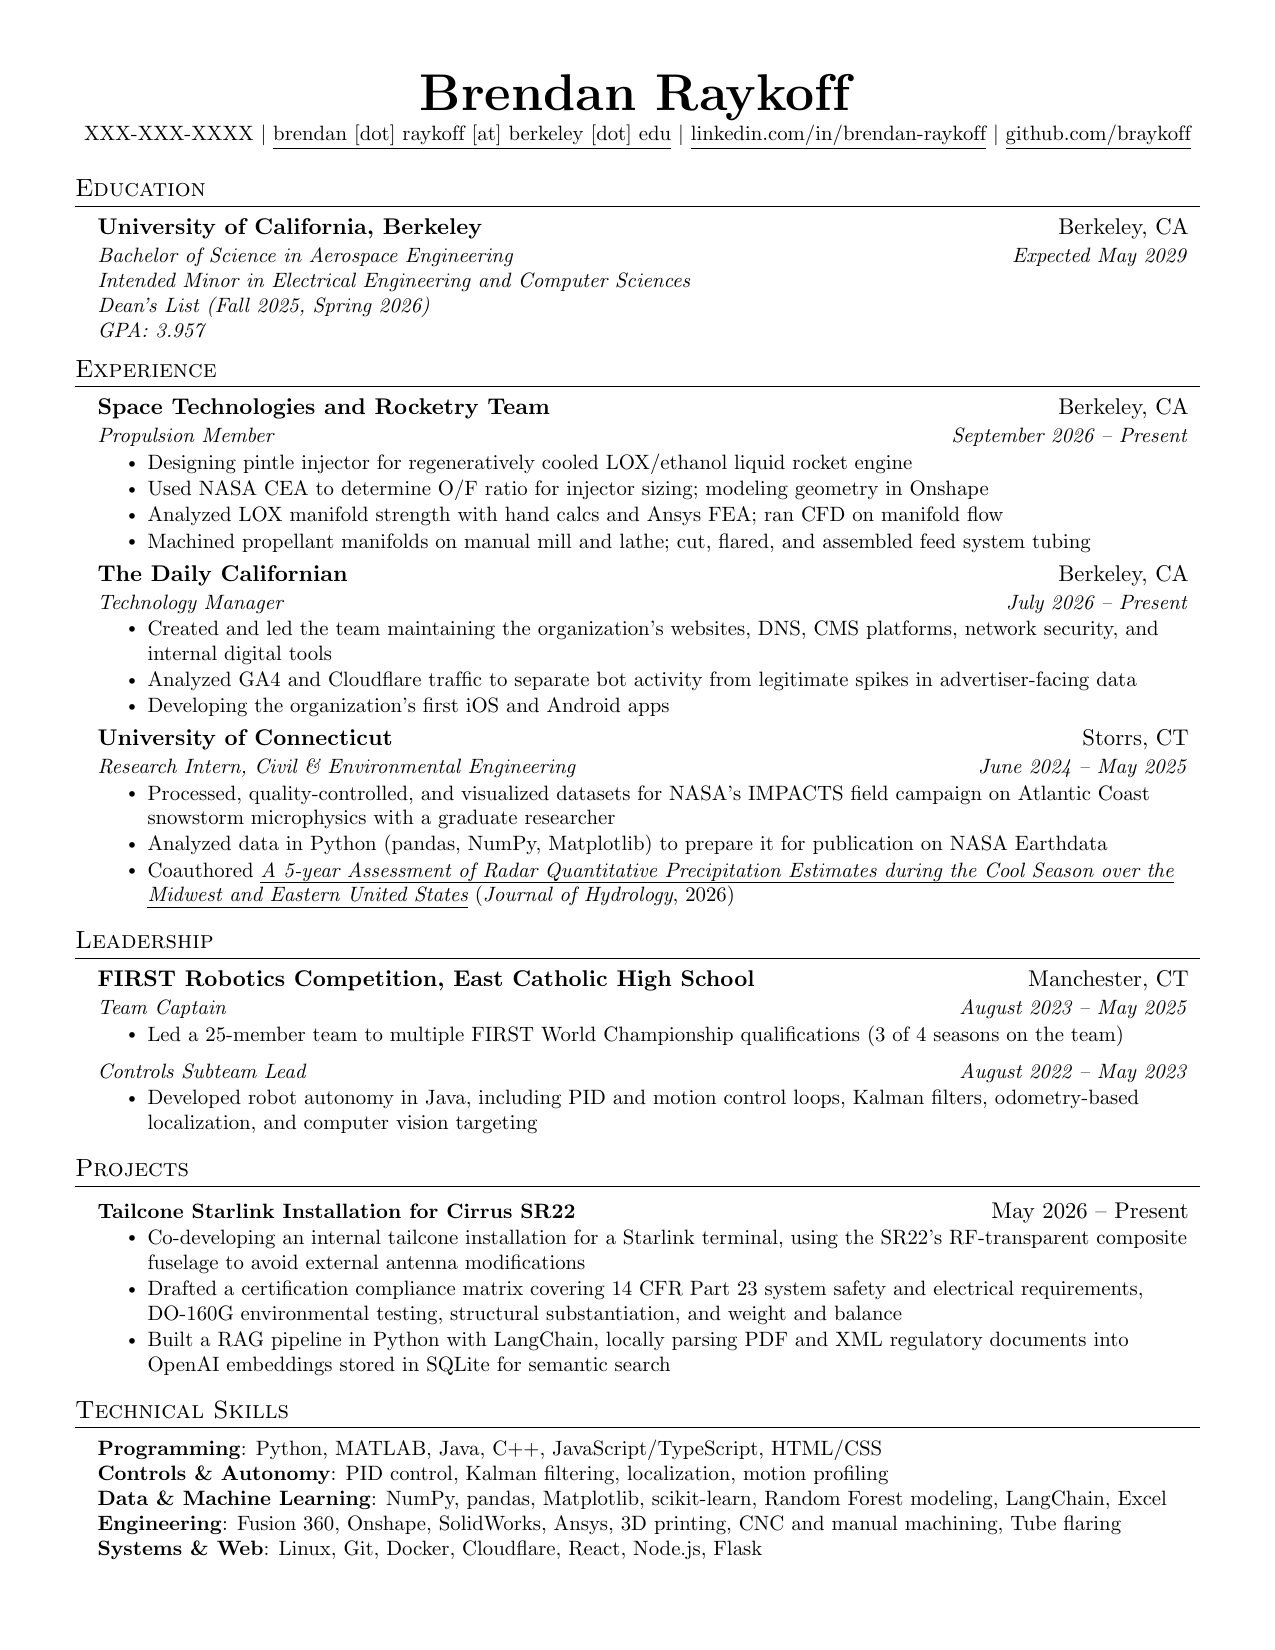
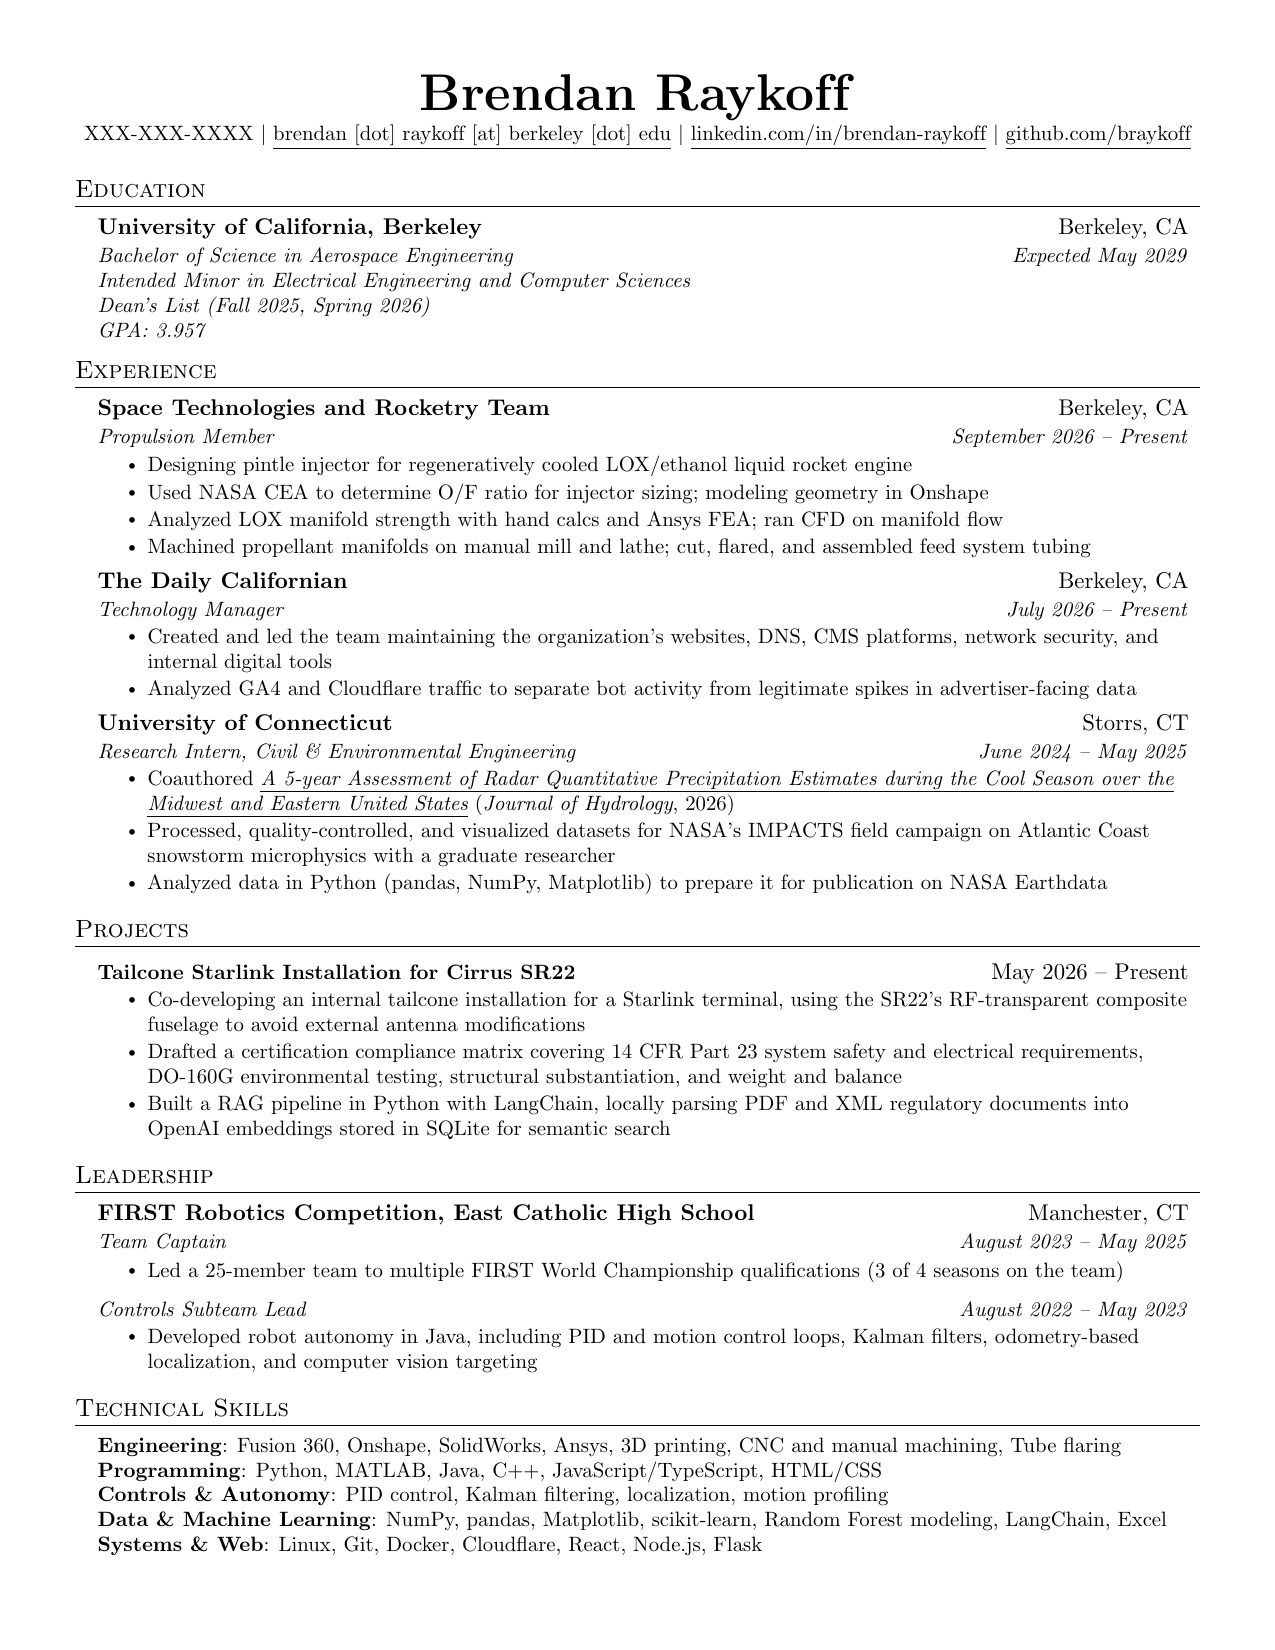
Rearranged sections

Changed region(s): [[0.0612, 0.2164, 0.9482, 0.9582], [0.8259, 0.2473, 0.9176, 0.2782], [0.7647, 0.2473, 0.7953, 0.2782]]

diff --git a/resume.tex b/resume.tex
@@ -153,18 +153,29 @@
       \resumeItemListStart
         \resumeItem{Created and led the team maintaining the organization's websites, DNS, CMS platforms, network security, and internal digital tools}
         \resumeItem{Analyzed GA4 and Cloudflare traf{}fic to separate bot activity from legitimate spikes in advertiser-facing data}
-        \resumeItem{Developing the organization's first iOS and Android apps}
       \resumeItemListEnd
 
       \resumeSubheading
       {University of Connecticut}{Storrs, CT}
       {Research Intern, Civil \& Environmental Engineering}{June 2024 -- May 2025}
       \resumeItemListStart
+        \resumeItem{Coauthored \href{https://doi.org/10.1016/j.jhydrol.2026.136645}{\itshape\uline{A 5-year Assessment of Radar Quantitative Precipitation Estimates during the Cool Season over the Midwest and Eastern United States}} (\textit{Journal of Hydrology}, 2026)}
         \resumeItem{Processed, quality-controlled, and visualized datasets for NASA's IMPACTS field campaign on Atlantic Coast snowstorm microphysics with a graduate researcher}
         \resumeItem{Analyzed data in Python (pandas, NumPy, Matplotlib) to prepare it for publication on NASA Earthdata}
-        \resumeItem{Coauthored \href{https://doi.org/10.1016/j.jhydrol.2026.136645}{\itshape\uline{A 5-year Assessment of Radar Quantitative Precipitation Estimates during the Cool Season over the Midwest and Eastern United States}} (\textit{Journal of Hydrology}, 2026)}
       \resumeItemListEnd
 
+  \resumeSubHeadingListEnd
+
+%-----------PROJECTS-----------
+\section{Projects}
+  \resumeSubHeadingListStart
+    \resumeProjectHeading
+      {\textbf{Tailcone Starlink Installation for Cirrus SR22}}{May 2026 -- Present}
+      \resumeItemListStart
+        \resumeItem{Co-developing an internal tailcone installation for a Starlink terminal, using the SR22's RF-transparent composite fuselage to avoid external antenna modifications}
+        \resumeItem{Drafted a certification compliance matrix covering 14 CFR Part 23 system safety and electrical requirements, DO-160G environmental testing, structural substantiation, and weight and balance}
+        \resumeItem{Built a RAG pipeline in Python with LangChain, locally parsing PDF and XML regulatory documents into OpenAI embeddings stored in SQLite for semantic search}
+      \resumeItemListEnd
   \resumeSubHeadingListEnd
 
 %-----------LEADERSHIP-----------
@@ -185,26 +196,14 @@
 
   \resumeSubHeadingListEnd
 
-%-----------PROJECTS-----------
-\section{Projects}
-  \resumeSubHeadingListStart
-    \resumeProjectHeading
-      {\textbf{Tailcone Starlink Installation for Cirrus SR22}}{May 2026 -- Present}
-      \resumeItemListStart
-        \resumeItem{Co-developing an internal tailcone installation for a Starlink terminal, using the SR22's RF-transparent composite fuselage to avoid external antenna modifications}
-        \resumeItem{Drafted a certification compliance matrix covering 14 CFR Part 23 system safety and electrical requirements, DO-160G environmental testing, structural substantiation, and weight and balance}
-        \resumeItem{Built a RAG pipeline in Python with LangChain, locally parsing PDF and XML regulatory documents into OpenAI embeddings stored in SQLite for semantic search}
-      \resumeItemListEnd
-  \resumeSubHeadingListEnd
-
 %-----------TECHNICAL SKILLS-----------
 \section{Technical Skills}
  \begin{itemize}[leftmargin=0.15in, label={}]
     \small{\item{
-     \textbf{Programming}{: Python, MATLAB, Java, C++, JavaScript/TypeScript, HTML/CSS} \\
+     \textbf{Engineering}{: Fusion 360, Onshape, SolidWorks, Ansys, 3D printing, CNC and manual machining, Tube flaring} \\
+\textbf{Programming}{: Python, MATLAB, Java, C++, JavaScript/TypeScript, HTML/CSS} \\
 \textbf{Controls \& Autonomy}{: PID control, Kalman filtering, localization, motion profiling} \\
 \textbf{Data \& Machine Learning}{: NumPy, pandas, Matplotlib, scikit-learn, Random Forest modeling, LangChain, Excel} \\
-\textbf{Engineering}{: Fusion 360, Onshape, SolidWorks, Ansys, 3D printing, CNC and manual machining, Tube flaring} \\
 \textbf{Systems \& Web}{: Linux, Git, Docker, Cloudflare, React, Node.js, Flask}
     }}
  \end{itemize}
